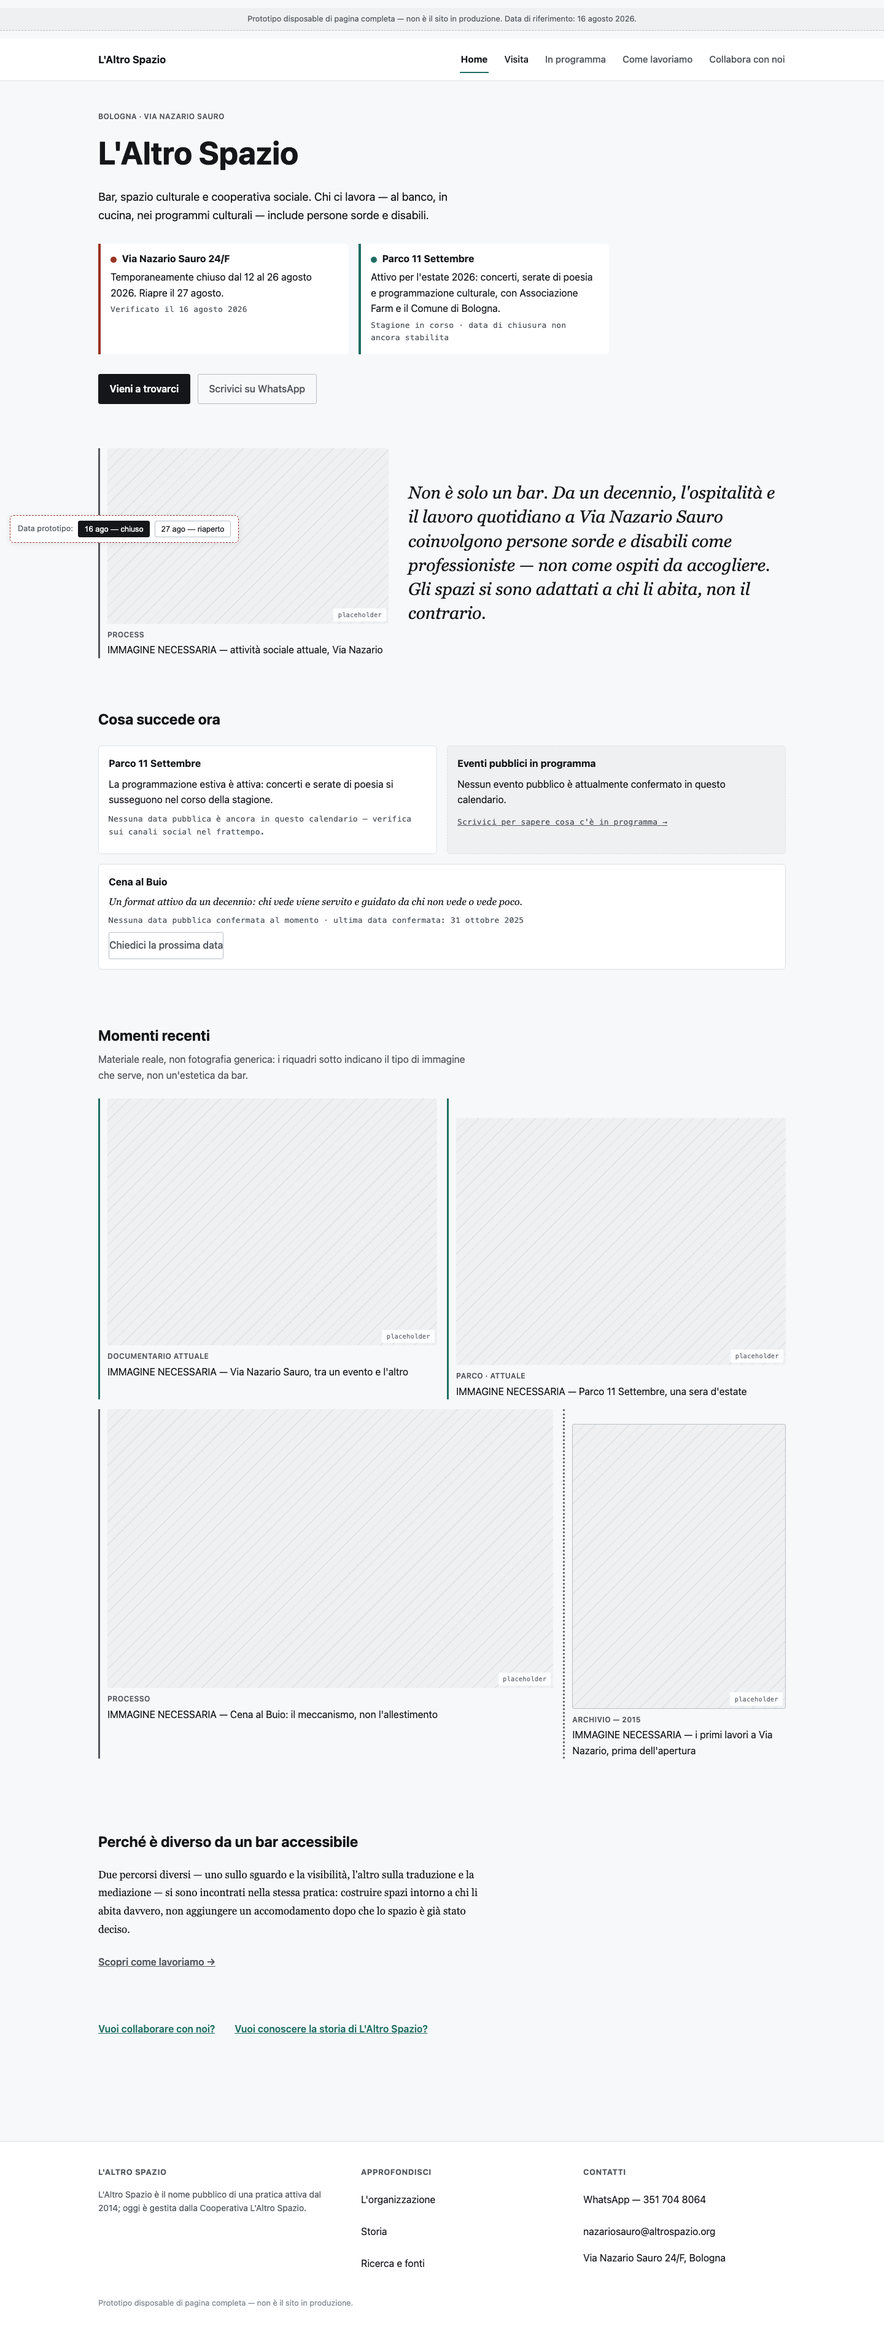
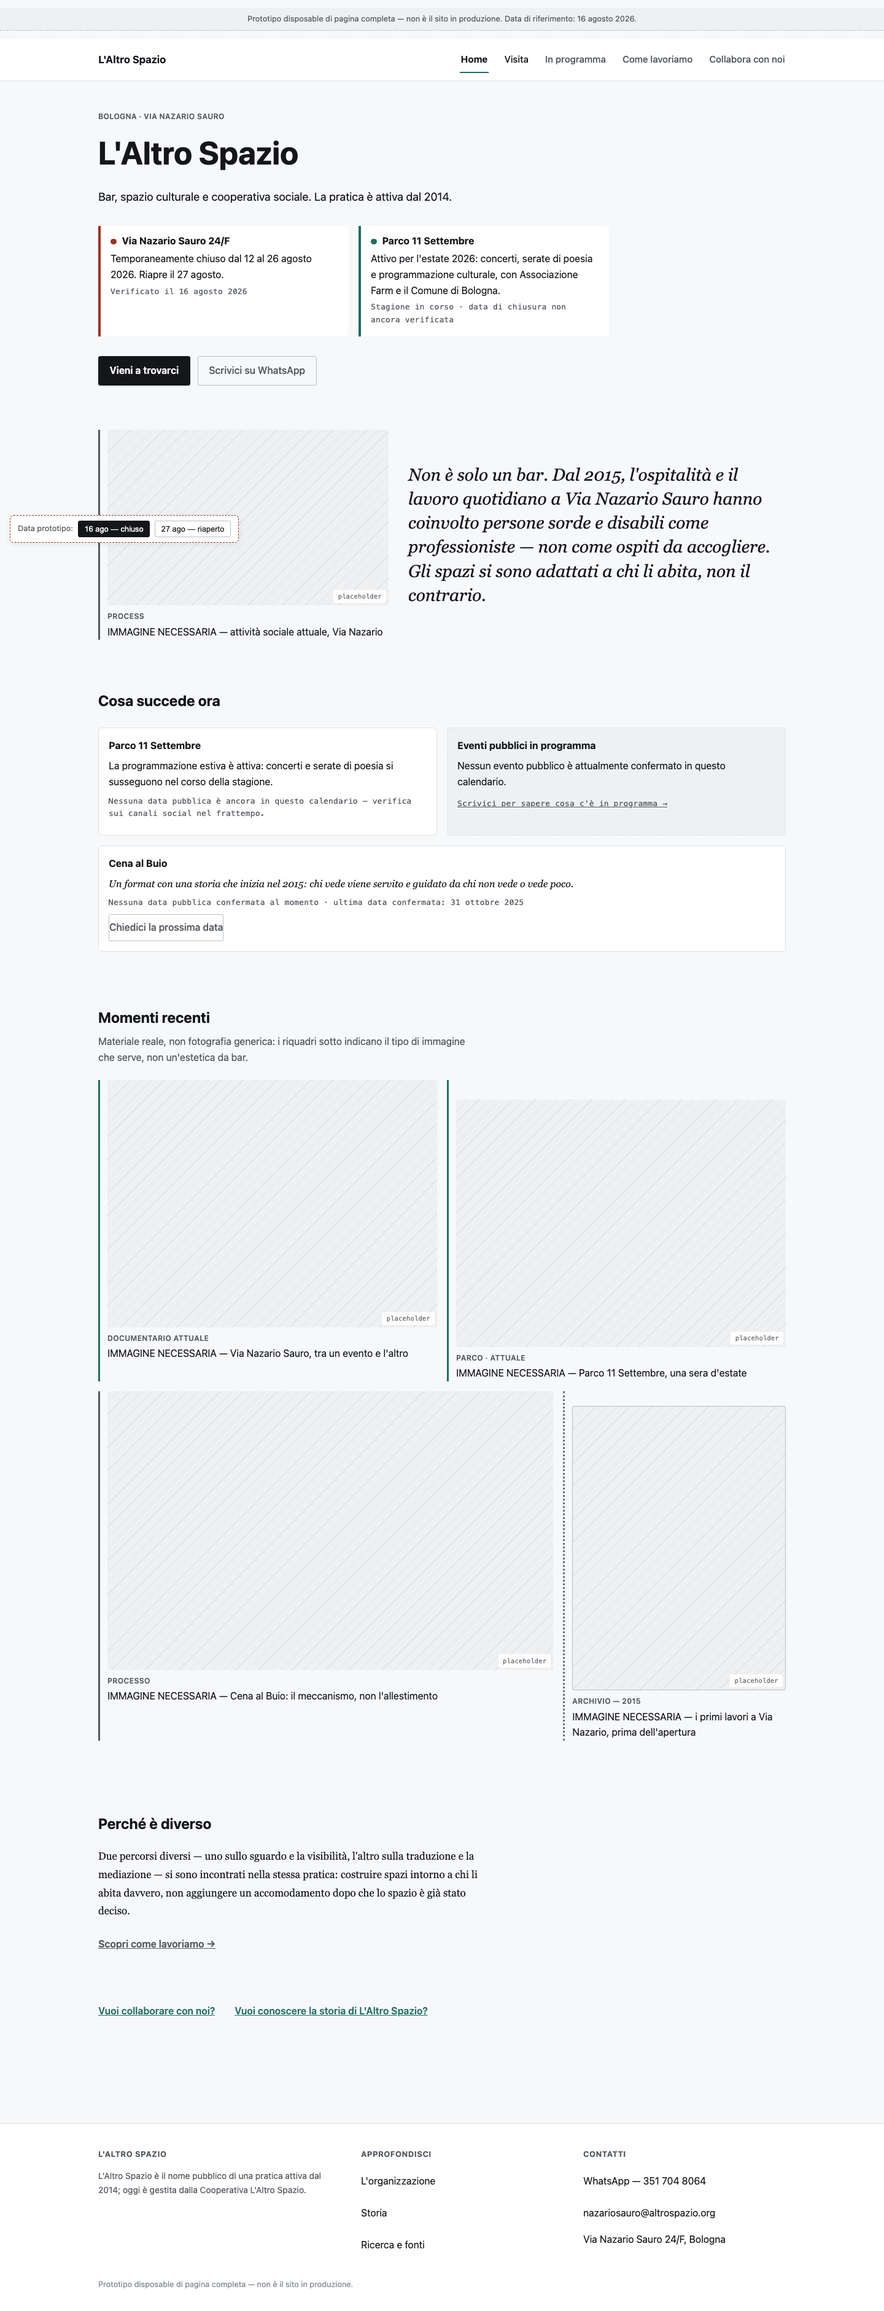
Owner review corrections: factual/semantic pass on Home + Visit prototype
Surgical corrections based on owner review of screenshots and report.
No redesign. No structure changes. No palette/typography changes.

Corrections applied:
- Remove unsupported present-tense workforce composition claim (HOME hero)
- Historical anchor on editorial statement: 'Da un decennio' → 'Dal 2015'
- Cena al Buio: remove 'attivo da un decennio', use historical framing
- 'stabilita' → 'verificata' across all Parco/hours metadata
- 27 Aug simulation: clearly marked reviewer-only, no future confirmation
- WhatsApp: remove unverified monitoring frequency and response claims
- Accessibility: downgrade 'parzialmente noto' to 'non verificato'
- Internal design rules removed from public surface (preserved in docs)
- 'bar accessibile' heading replaced with neutral prototype heading
- Report: cooperative registration (2022) distinguished from operational consolidation (2025)
- Report: content verification restructured by evidence class (current operational / historical / point-in-time / unknown)
- Report: owner visual review finding added (Visit validated; Home awaits real photography)
- New doc: laltrospazio-production-image-needs-v1.md (practical image asset request)

Screenshots re-rendered at 1440+390 for both date states.
QA: zero overflow, all corrections verified, no regressions.

diff --git a/prototypes/page-experience-v1/visit/index.html b/prototypes/page-experience-v1/visit/index.html
@@ -117,14 +117,14 @@
         <p class="v-metadata">Confermato dal gestore · verificato il 16 agosto 2026</p>
       </div>
       <div class="notice-block notice-block--calm" data-show-on="27aug">
-        <h3><span class="status-dot status-dot--current" aria-hidden="true"></span>Ha riaperto</h3>
-        <p>Il locale ha riaperto il 27 agosto 2026, come previsto.</p>
-        <p class="v-metadata">Confermato dal gestore</p>
+        <h3><span class="status-dot status-dot--current" aria-hidden="true"></span>Simulazione revisore</h3>
+        <p>La chiusura temporanea non è più visualizzata. Gli orari abituali non sono stati ancora verificati dopo la riapertura.</p>
+        <p class="v-metadata">Simulazione — non è una conferma di stato</p>
       </div>
 
       <div class="hours-block">
         <h3><span class="status-dot status-dot--unknown" aria-hidden="true"></span>Orari abituali</h3>
-        <p>Non ancora confermati. Prima di venire, scrivici su WhatsApp: rispondiamo con l'orario di quel giorno.</p>
+        <p>Non ancora confermati. Prima di venire, scrivici su WhatsApp.</p>
         <p class="v-metadata">In fase di verifica · nessuna fonte pubblica affidabile al momento</p>
         <div class="btn-row" style="margin-top: var(--space-2);">
           <a class="btn btn--quiet" href="https://wa.me/393517048064" target="_blank" rel="noopener">Chiedi l'orario di oggi</a>
@@ -173,18 +173,18 @@
 
 <!-- ACCESSIBILITY -->
 <section class="place-section" id="accessibilita" aria-labelledby="access-h">
-  <p class="v-label">Parte normale della visita, non una sezione a parte</p>
+  <p class="v-label">Sede principale</p>
   <h2 id="access-h">Accessibilità</h2>
-  <p class="measure">Molte condizioni fisiche e sensoriali non sono ancora state verificate di persona — restano visibili come "da verificare", non nascoste. Una cosa è già confermata: puoi scriverci prima di venire, e ti rispondiamo.</p>
+  <p class="measure">Molte condizioni fisiche e sensoriali non sono ancora state verificate di persona — restano visibili come "da verificare", non nascoste. Puoi scriverci prima di venire.</p>
 
   <div class="quick-answers">
     <article class="quick-answer">
       <h3>Posso entrare con una sedia a rotelle?</h3>
-      <p>Non possiamo ancora confermare l'accesso senza gradini o la larghezza della porta per l'edificio attuale. <a href="#dim-fisico">Vedi cosa sappiamo</a>, e scrivici prima di venire se questo conta per te.</p>
-    </article>
-    <article class="quick-answer">
-      <h3>Come possiamo comunicare?</h3>
-      <p>Il testo o WhatsApp funzionano fin da ora e vengono controllati regolarmente. Se il personale in servizio conosce la LIS in una data specifica non è ancora confermato — chiedilo quando prenoti.</p>
+        <p>Non possiamo ancora confermare l'accesso senza gradini o la larghezza della porta per l'edificio attuale. <a href="#dim-fisico">Vedi cosa sappiamo</a>, e scrivici prima di venire se questo conta per te.</p>
+      </article>
+      <article class="quick-answer">
+        <h3>Come possiamo comunicare?</h3>
+        <p>Puoi scriverci su WhatsApp o via testo — è il canale disponibile. Se il personale in servizio conosce la LIS in una data specifica non è ancora confermato — chiedilo quando prenoti.</p>
     </article>
     <article class="quick-answer">
       <h3>L'accesso è diverso per un evento specifico?</h3>
@@ -203,11 +203,11 @@
       <div class="dim-body"><p>Ingresso, larghezza della porta, percorso interno e bagno non sono ancora stati verificati per l'edificio attuale. Un progetto storico del 2015 prevedeva un bancone abbassato: è un'intenzione di allora, non una verifica di oggi.</p></div>
     </details>
     <details class="dim">
-      <summary>Accesso visivo <span class="dim-state">— parzialmente noto</span></summary>
+      <summary>Accesso visivo <span class="dim-state">— non verificato</span></summary>
       <div class="dim-body"><p>Menu in Braille documentati nel 2018; non sappiamo ancora se siano ancora disponibili oggi. Illuminazione e contrasto da verificare di persona.</p></div>
     </details>
     <details class="dim">
-      <summary>Accesso sordi / comunicazione <span class="dim-state">— parzialmente confermato</span></summary>
+      <summary>Accesso sordi / comunicazione <span class="dim-state">— parzialmente verificato</span></summary>
       <div class="dim-body"><p>Il contatto scritto/WhatsApp è confermato e funziona oggi. Se il personale in servizio conosca correntemente la LIS non è ancora confermato per ogni turno.</p></div>
     </details>
     <details class="dim">
@@ -231,7 +231,7 @@
       <div class="dim-body"><p>Un solo canale reale oggi: WhatsApp, +39 351 704 8064.</p></div>
     </details>
     <details class="dim">
-      <summary>Limitazioni temporanee <span class="dim-state">— nessuna segnalata al momento</span></summary>
+      <summary>Limitazioni temporanee <span class="dim-state">— nessuna segnalazione verificata al momento</span></summary>
       <div class="dim-body"><p>Nessun guasto, lavoro in corso o percorso bloccato è segnalato al momento, oltre alla chiusura stagionale già indicata sopra.</p></div>
     </details>
   </div>
@@ -239,7 +239,7 @@
 
 <!-- PARCO -->
 <section class="place-section" id="parco" aria-labelledby="parco-h">
-  <p class="v-label">Programma stagionale, non un secondo bar</p>
+  <p class="v-label">Programma stagionale</p>
   <h2 id="parco-h">Parco 11 Settembre</h2>
 
   <div class="info-grid">
@@ -247,7 +247,7 @@
       <div class="notice-block notice-block--calm">
         <h3><span class="status-dot status-dot--current" aria-hidden="true"></span>Attivo per l'estate 2026</h3>
         <p>Concerti, serate di poesia e programmazione culturale, in collaborazione con Associazione Farm e il Comune di Bologna.</p>
-        <p class="v-metadata">Confermato dal gestore · orario giornaliero e data di fine stagione non ancora stabiliti</p>
+        <p class="v-metadata">Confermato dal gestore · orario giornaliero e data di fine stagione non ancora verificati</p>
       </div>
       <p class="parco-note">Parco 11 Settembre è un parco pubblico all'aperto: il suo profilo di accessibilità è probabilmente diverso da quello di Via Nazario Sauro, e non è ancora stato verificato separatamente.</p>
       <div class="btn-row" style="margin-top: var(--space-3);">

diff --git a/prototypes/page-experience-v1/index.html b/prototypes/page-experience-v1/index.html
@@ -102,19 +102,19 @@
 <section class="hero" aria-labelledby="hero-h">
   <p class="v-label hero__eyebrow">Bologna · Via Nazario Sauro</p>
   <h1 id="hero-h">L'Altro Spazio</h1>
-  <p class="hero__lead">Bar, spazio culturale e cooperativa sociale. Chi ci lavora — al banco, in cucina, nei programmi culturali — include persone sorde e disabili.</p>
+  <p class="hero__lead">Bar, spazio culturale e cooperativa sociale. La pratica è attiva dal 2014.</p>
 
   <div class="place-status-grid">
     <article class="place-status place-status--notice">
       <h2><span class="status-dot status-dot--notice" aria-hidden="true"></span>Via Nazario Sauro 24/F</h2>
       <p data-show-on="16aug">Temporaneamente chiuso dal 12 al 26 agosto 2026. Riapre il 27 agosto.</p>
-      <p data-show-on="27aug">Ha riaperto il 27 agosto. Orari abituali ancora in fase di verifica.</p>
+      <p data-show-on="27aug">Simulazione revisore: la chiusura temporanea non è più visualizzata. Orari abituali non ancora verificati.</p>
       <p class="v-metadata">Verificato il 16 agosto 2026</p>
     </article>
     <article class="place-status place-status--current">
       <h2><span class="status-dot status-dot--current" aria-hidden="true"></span>Parco 11 Settembre</h2>
       <p>Attivo per l'estate 2026: concerti, serate di poesia e programmazione culturale, con Associazione Farm e il Comune di Bologna.</p>
-      <p class="v-metadata">Stagione in corso · data di chiusura non ancora stabilita</p>
+      <p class="v-metadata">Stagione in corso · data di chiusura non ancora verificata</p>
     </article>
   </div>
 
@@ -133,7 +133,7 @@
       <p>IMMAGINE NECESSARIA — attività sociale attuale, Via Nazario</p>
     </figcaption>
   </figure>
-  <p id="bridge-h" class="v-editorial-lead">Non è solo un bar. Da un decennio, l'ospitalità e il lavoro quotidiano a Via Nazario Sauro coinvolgono persone sorde e disabili come professioniste — non come ospiti da accogliere. Gli spazi si sono adattati a chi li abita, non il contrario.</p>
+  <p id="bridge-h" class="v-editorial-lead">Non è solo un bar. Dal 2015, l'ospitalità e il lavoro quotidiano a Via Nazario Sauro hanno coinvolto persone sorde e disabili come professioniste — non come ospiti da accogliere. Gli spazi si sono adattati a chi li abita, non il contrario.</p>
 </section>
 
 <!-- BEAT 3 — CURRENT ACTIVITY (medium density, honesty-led) -->
@@ -152,7 +152,7 @@
     </article>
     <article class="activity-card" style="grid-column: 1 / -1;">
       <h3>Cena al Buio</h3>
-      <p class="v-editorial" style="font-size:1rem;">Un format attivo da un decennio: chi vede viene servito e guidato da chi non vede o vede poco.</p>
+      <p class="v-editorial" style="font-size:1rem;">Un format con una storia che inizia nel 2015: chi vede viene servito e guidato da chi non vede o vede poco.</p>
       <p class="v-metadata">Nessuna data pubblica confermata al momento · ultima data confermata: 31 ottobre 2025</p>
       <div class="btn-row" style="margin-top: var(--space-2);">
         <a class="btn btn--quiet" href="https://wa.me/393517048064" target="_blank" rel="noopener">Chiedici la prossima data</a>
@@ -199,7 +199,7 @@
 
 <!-- BEAT 5 — APPROACH BRIDGE (quiet) -->
 <section class="approach-bridge" aria-labelledby="approach-h">
-  <h2 id="approach-h">Perché è diverso da un bar accessibile</h2>
+  <h2 id="approach-h">Perché è diverso</h2>
   <p class="v-long-form">Due percorsi diversi — uno sullo sguardo e la visibilità, l'altro sulla traduzione e la mediazione — si sono incontrati nella stessa pratica: costruire spazi intorno a chi li abita davvero, non aggiungere un accomodamento dopo che lo spazio è già stato deciso.</p>
   <p><a href="#" class="nav-link--inert" style="font-weight:600;">Scopri come lavoriamo →</a></p>
 </section>

diff --git a/docs/design/laltrospazio-page-experience-home-visit-v1.md b/docs/design/laltrospazio-page-experience-home-visit-v1.md
@@ -2,7 +2,7 @@
 
 **Working date:** 16 August 2026
 **Branch:** `feature/page-experience-home-visit-v1` (based on `main@474938e`)
-**Status:** Disposable full-page prototype — mechanical QA complete, visual QA requires human review. Not a design sign-off.
+**Status:** Disposable full-page prototype — mechanical QA complete, owner visual review applied. Visit structurally validated; Home awaits real-photography test. Not a design sign-off.
 **Scope:** Two full-page HTML prototypes (Home + Visit) testing the recommended page experience against real content, with a reviewer-only date-state switch for the August 2026 closure/reopening.
 
 ---
@@ -100,34 +100,56 @@ Zero horizontal overflow at all viewport widths. Grid items use `min-width: 0` t
 | Email link (`mailto:`) | ✅ | ✅ |
 | WhatsApp link (`wa.me`) | ✅ | ✅ |
 
+### Owner visual review (16 August 2026)
+
+| Page | Finding |
+|------|---------|
+| Visit | Structurally and visually convincing enough for this prototype stage. Content honesty, hierarchy, and nine-dimension accessibility model read clearly at page scale. |
+| Home | Structurally convincing. Full creative specificity — warmth, density, rhythm of real photography — remains dependent on a real-photography test. Placeholder images cannot validate the final visual identity. |
+
 ---
 
 ## 3. Content verification against canonical sources
 
 All content in the prototype was verified against the canonical docs in `docs/institution/`.
 
-### Verified facts (CURRENT VERIFIED)
+### Current operational facts
 
 | Fact | Source |
 |------|--------|
 | Address: Via Nazario Sauro 24/F, Bologna | `laltrospazio-current-public-state-v1.md` |
 | WhatsApp: +39 351 704 8064 | `laltrospazio-current-public-state-v1.md` (two independent sources) |
 | Email: nazariosauro@altrospazio.org | `laltrospazio-current-public-state-v1.md` (Facebook corroborated) |
-| Closure: 12–26 August 2026, reopens 27 August | Owner-confirmed |
+| Closure: 12–26 August 2026, planned reopening 27 August | Owner-confirmed planned date; actual reopening not yet occurred at source date |
 | Parco 11 Settembre: active summer 2026 | Owner-confirmed |
-| Cena al Buio: decade-old format, last confirmed date 31 Oct 2025 | `laltrospazio-current-public-state-v1.md` |
-| Cooperativa L'Altro Spazio: legal operator since 2022 | `laltrospazio-current-public-state-v1.md` |
+| Cooperativa L'Altro Spazio: cooperative registration 2022, operational consolidation of Via Nazario/Parco from 2025 | `laltrospazio-current-public-state-v1.md` |
 
-### Honest uncertainty (correctly represented)
+### Historical / longitudinal facts
 
-| Fact | Status in prototype |
-|------|---------------------|
-| Regular opening hours | "Non ancora confermati" — correct, no authoritative source exists |
-| Wheelchair access / door width / toilet | "Da verificare di persona" — correct, zero physical access items verified |
-| LIS-capable staff per shift | "Non ancora confermato" — correct, historically strong but current staffing unestablished |
-| Braille menus | "Non sappiamo ancora se sappiano ancora disponibili oggi" — correct, documented 2018, current unverified |
-| Season end date for Parco | "Data di chiusura non ancora stabilita" — correct |
-| Specific event dates | "Nessuna data pubblica è ancora in questo calendario" — correct, no 2026 event dates verified |
+| Fact | Source |
+|------|--------|
+| Cena al Buio: format developed from 2015, last confirmed public date 31 October 2025 | `laltrospazio-current-public-state-v1.md` |
+| L'Altro Spazio practice active since 2014 | `laltrospazio-current-public-state-v1.md` |
+| Deaf/disabled workforce involvement: historical practice since 2015, current composition not established | `laltrospazio-current-public-state-v1.md` |
+| Braille menus: documented 2018, current availability unverified | `laltrospazio-current-public-state-v1.md` |
+
+### Point-in-time evidence (not current service availability)
+
+| Fact | Source |
+|------|--------|
+| Cena al Buio last confirmed date: 31 Oct 2025 | `laltrospazio-current-public-state-v1.md` |
+| No 2026 Cena al Buio public dates found | `laltrospazio-current-public-state-v1.md` |
+
+### Current status unknown
+
+| Fact | Status |
+|------|--------|
+| Regular opening hours | No authoritative source exists |
+| Wheelchair access / door width / toilet | Zero physical access items verified |
+| LIS-capable staff per shift | Historically strong, current staffing unestablished |
+| Season end date for Parco | Not yet verified |
+| Specific 2026 event dates | No 2026 event dates verified |
+| Regular WhatsApp monitoring frequency | Not established |
 
 ### Claims deliberately NOT included
 
@@ -157,14 +179,16 @@ The prototype implements the creative direction v1 (`docs/design/laltrospazio-cr
 | Placeholder images: never fake-photo | Diagonal-line pattern with "placeholder" flag, not stock photos |
 | Accessibility as section of Visit, not standalone | Nine-dimension model embedded in Visit page |
 | Date-state switch: stands in for real auto-expiry | localStorage-persisted, reviewer-only, two states |
+| Internal design rules → neutral public labels | Design principles ("not a separate section", "not a second bar") preserved in this document, not displayed as public copy |
 
 ### What is NOT tested in this prototype
 
 - Typography family choices (system fonts only — structural relationship tested, not final fonts)
-- Photography (placeholders only — real images supply warmth, not the base palette)
+- Photography (placeholders only — real images supply warmth, not the base palette; see `docs/design/laltrospazio-production-image-needs-v1.md` for production image requirements)
 - Relationship treatments (linear vs. spatial — tested in Study 5 of the creative prototype lab)
 - Dark mode (not in scope for v1)
 - Build-time NOTICE auto-expiry (manual switch instead)
+- Final visual identity of Home (dependent on real-photography test)
 
 ---
 
@@ -172,16 +196,20 @@ The prototype implements the creative direction v1 (`docs/design/laltrospazio-cr
 
 ```
 prototypes/page-experience-v1/
-├── index.html              (242 lines — Home prototype)
+├── index.html              (Home prototype)
 ├── visit/
-│   └── index.html          (304 lines — Visit prototype)
+│   └── index.html          (Visit prototype)
 ├── shared/
-│   ├── tokens.css          (50 lines — palette + spacing)
-│   ├── type.css            (62 lines — two-voice typography)
-│   ├── base.css            (111 lines — reset + primitives)
-│   ├── frame.css           (94 lines — header/nav/footer + date switch)
-│   └── frame.js            (35 lines — mobile nav + date switch)
+│   ├── tokens.css          (palette + spacing)
+│   ├── type.css            (two-voice typography)
+│   ├── base.css            (reset + primitives)
+│   ├── frame.css           (header/nav/footer + date switch)
+│   └── frame.js            (mobile nav + date switch)
 └── screenshots/            (8 PNG files — desktop/mobile × 16aug/27aug × home/visit)
+
+docs/design/
+├── laltrospazio-page-experience-home-visit-v1.md  (this report)
+└── laltrospazio-production-image-needs-v1.md      (image asset request)
 ```
 
 ### Pre-existing working-tree change (NOT part of this work)

diff --git a/docs/design/laltrospazio-production-image-needs-v1.md b/docs/design/laltrospazio-production-image-needs-v1.md
@@ -1,0 +1,52 @@
+# L'Altro Spazio — Production Image Needs v1
+
+**Date:** 16 August 2026
+**Purpose:** Replace placeholder images in the page-experience prototype with real institutional material. Test whether ENCOUNTER arrives at page scale.
+**Scope:** Image TYPES only — not a branding brief. Do not prescribe poses, do not request glossy photography, do not ask for generic bar images.
+
+---
+
+## Via Nazario Sauro
+
+| Type | Why | Notes |
+|------|-----|-------|
+| Current exterior / arrival | First-contact orientation; visitor needs to recognise the building | Street-level, unposed |
+| Current interior environment | Establishes the space as it actually is | Between events, not staged |
+| Current human / social activity | The core ENCOUNTER moment — people working, interacting | Documentary, not promotional |
+| Detail / object / process | One image showing a specific mechanism (counter, menu, workspace) | Chooses specificity over atmosphere |
+
+## Parco 11 Settembre
+
+| Type | Why | Notes |
+|------|-----|-------|
+| Current environment | Establishes the outdoor space as a real place | One wide, one detail if available |
+| Current social / programme activity | Shows the summer programme in action | Concert, poetry night, or general gathering |
+
+## Historical / Process
+
+| Type | Why | Notes |
+|------|-----|-------|
+| Early Via Nazario (pre-2015 or construction) | One or two public-safe images if available | Establishes longitudinal depth; not required for first test |
+
+## Access verification images
+
+| Type | Why | Notes |
+|------|-----|-------|
+| Entrance | Practical orientation; helps visitor assess physical access before arriving | Street-level, clear |
+| Threshold / door | Wheelchair / mobility access assessment | Width, step presence |
+| Main circulation path | Internal navigation clarity | From entrance inward |
+| Toilet | Wheelchair / mobility access assessment | If accessible and safe to photograph |
+
+---
+
+## What NOT to request
+
+- Glossy branding photography
+- Posed portraits
+- Stock-style bar/cafe images
+- Images of private individuals without consent
+- Anything from social media without owner permission
+
+## Purpose
+
+Replace placeholders with real institutional material and test whether the creative direction's ENCOUNTER mechanism actually arrives at page scale with real photography.
